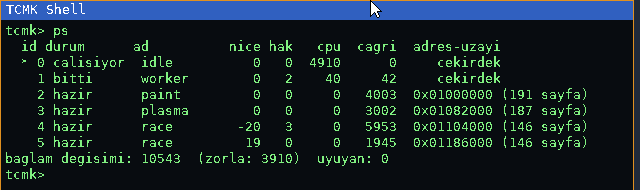
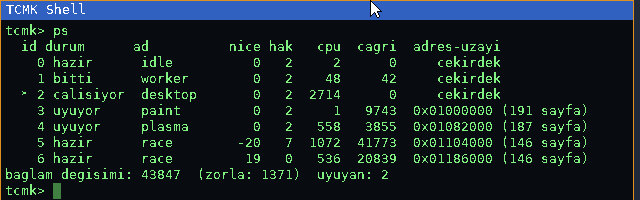
Masaustu ayri bir gorev, 0 numara gercek idle
Gecen commit'te bilinen sinir olarak yazilan sey kapaniyor: 0 numarali
gorev artik masaustu dongusu degil. Masaustu kendi gorevinde kosuyor ve
normal kurallara tabi -- nice, donem hakki, preemption. Idle'in tek isi
bos beklemek; pick_next onu yalnizca calistirilabilir baska gorev
yokken seciyor, o da hlt ile CPU'yu tamamen birakiyor.

Olcusu: ps'te idle'in cpu sutunu 5138 tikin 2'si. Yani CPU bosa
gitmiyor. Onceden tiklerin ~%95'i oraya yaziliyordu.

Yan kazanc: kabuk artik masaustu gorevinde kostugu icin disk komutlari
kesmeyle bekleyebiliyor (daha once idle'da kostugu icin yoklamaya
dusuyordu), ve masaustunun gercek CPU maliyeti gorunur oldu (i386'da
2714 tik).

Yol boyunca uc hata cikti:

1. BAGLAM DEGISIMI BOLUNEMEZ DEGILDI. Masaustu ayri goreve tasinir
   tasinmaz sistem #DB istisnasiyla coktu; hata adresi her seferinde
   arch_context_switch icindeki popfl'in bir sonrasiydi, yani takas
   edilen baglamin EFLAGS'i bozuktu ve TF biti iceriyordu. Sebep:
   yield_now yalnizca SECIMI koruyordu, takasin kendisi kesmelere
   aciktı. O aralikta gelen zamanlayici kesmesi preempt_from_timer
   uzerinden yield_now'a IC ICE giriyor, CURRENT yeni goreve yazilmis
   ama yigin degismemis oldugu icin ic cagri ESKI yigini YENI gorevin
   yuvasina kaydediyordu. Bu hata masaustu ayrimindan onceki kodda da
   vardi; yield sikligi onu gun yuzune cikarmamisti.

2. KOSAN GOREV HICBIR ZAMAN ADAY OLAMIYORDU. pick_next yalnizca Ready
[…]

diff --git a/kernel/src/level0a/core/scheduler.rs b/kernel/src/level0a/core/scheduler.rs
@@ -344,6 +344,12 @@ pub fn preemptions() -> usize {
     PREEMPTIONS.load(Ordering::Relaxed)
 }
 
+/// Zamanlayici baglam degisimi istiyor mu?
+///
+/// Su an yalnizca `preempt_from_timer` icinden okunuyor; disariya acik
+/// kalmasi bilincli, cunku uzun suren cekirdek islerinin arasinda
+/// "sirami birakmali miyim" diye sormasi dogru olan yontemdir.
+#[allow(dead_code)]
 pub fn needs_resched() -> bool {
     NEED_RESCHED.load(Ordering::Relaxed)
 }
@@ -359,16 +365,27 @@ pub fn yield_now() {
     // sekilde bosta calisiyordur, olu degil.
     crate::level0a::pit::beat();
 
-    let (current_index, next_index) = crate::arch::cpu::without_interrupts(|| {
-        let current = CURRENT.load(Ordering::Relaxed);
-        (current, pick_next(current))
-    });
+    // Secim VE takas tek parcada, kesmeler kapali yapilir.
+    //
+    // Onceden yalnizca secim korunuyordu; takasin kendisi kesmelere
+    // acikti. O aralikta gelen bir zamanlayici kesmesi `preempt_from_timer`
+    // uzerinden `yield_now`'a IC ICE girebiliyordu: CURRENT yeni goreve
+    // yazilmis ama yigin henuz degismemis oluyor, bu yuzden ic cagri
+    // ESKI yigini YENI gorevin yuvasina kaydediyordu. Sonucu, bir
+    // sonraki takasta `popfl`'in bozuk bir EFLAGS okumasi -- ve TF biti
+    // oradan gelirse aninda #DB istisnasi.
+    //
+    // Kesmeleri kapatmak burada tutarlidir: her gorev ayni sarmalayicinin
+    // icinde takas edilir, yani IF=0 ile cikip IF=0 ile geri girer ve
+    // sarmalayici cikista onu geri acar. Yeni dogan gorev ise
+    // `bootstrap_stack`'ten IF=1 ile baslar.
+    crate::arch::cpu::without_interrupts(|| unsafe {
+        let current_index = CURRENT.load(Ordering::Relaxed);
+        let next_index = pick_next(current_index);
+        if next_index == current_index {
+            return;
+        }
 
-    if next_index == current_index {
-        return;
-    }
-
-    unsafe {
         let tasks = core::ptr::addr_of_mut!(TASKS) as *mut Task;
 
         if (*tasks.add(current_index)).state == TaskState::Running {
@@ -389,6 +406,14 @@ pub fn yield_now() {
         if current_index != IDLE_TASK {
             let credits = &mut (*tasks.add(current_index)).credits;
             *credits = credits.saturating_sub(1);
+        }
+        // Idle'a gecerken donem yenilenir: baska gorev kalmadigi icin
+        // idle secildiyse, sonraki uyanmada herkesin hakki hazir olsun.
+        if next_index == IDLE_TASK {
+            let count = TASK_COUNT.load(Ordering::Relaxed);
+            for i in 0..count {
+                (*tasks.add(i)).credits = slice_ticks((*tasks.add(i)).nice);
+            }
         }
         (*tasks.add(next_index)).state = TaskState::Running;
         CURRENT.store(next_index, Ordering::Relaxed);
@@ -417,7 +442,7 @@ pub fn yield_now() {
         let old_sp_slot = core::ptr::addr_of_mut!((*tasks.add(current_index)).stack_pointer);
         let new_sp = (*tasks.add(next_index)).stack_pointer;
         arch_context_switch(old_sp_slot, new_sp);
-    }
+    });
 }
 
 /// Calisan gorevi sonlandirir ve bir daha asla ona donmez.
@@ -444,49 +469,59 @@ fn pick_next(current: usize) -> usize {
     let count = TASK_COUNT.load(Ordering::Relaxed);
     wake_expired(count);
 
-    // Donem sonu: idle DISINDA hakki kalmis hazir gorev yoksa yeni donem
-    // baslar. Idle'in muafiyeti kosula dahil edilmemeli -- edilseydi o her
-    // zaman hazir ve muaf oldugu icin kosul hicbir zaman saglanmaz, donem
-    // hic yenilenmez ve hakki biten butun gorevler kalici olarak ac
-    // kalirdi. (Tam olarak bu hata yasandi: yeni baslatilan surec hic
-    // zamanlanmadi.)
-    unsafe {
-        let tasks = core::ptr::addr_of!(TASKS) as *const Task;
-        let mut any_credited = false;
-        for i in 0..count {
-            // KOSAN gorev de sayilmali. `pick_next` cagrildigi anda o
-            // gorevin durumu `Running`'dir; yalnizca `Ready` aransaydi
-            // "kimsede hak kalmadi" sanilir ve donem HER turda yenilenirdi
-            // -- yani hakki biten gorev aninda yeniden hak kazanir ve
-            // oncelik hicbir sey ifade etmezdi. Olcum tam olarak bunu
-            // gosterdi: hak sutunu 7'ye karsi 0 iken bile iki surec ayni
-            // hizda kosuyordu.
-            let state = (*tasks.add(i)).state;
-            let runnable = state == TaskState::Ready || state == TaskState::Running;
-            if i != IDLE_TASK && runnable && (*tasks.add(i)).credits > 0 {
-                any_credited = true;
-                break;
+    // Iki gecis. Once donem hakki kalmis hazir gorevler aranir; hicbiri
+    // yoksa donem kapanir (herkesin hakki tazelenir) ve tekrar bakilir.
+    //
+    // Donem kapaninca kullanilmamis hak SILINIR, devretmez. Devretseydi
+    // yuksek oncelikli bir gorev hak biriktirip sirayi hic birakmazdi --
+    // olculdu: dusuk oncelikli surec 1305 tike karsi 8 tik aldi, yani
+    // 8:1 olmasi gereken oran 163:1'e cikti.
+    for pass in 0..2 {
+        unsafe {
+            let tasks = core::ptr::addr_of!(TASKS) as *const Task;
+            for offset in 1..=count {
+                let candidate = (current + offset) % count;
+                if (*tasks.add(candidate)).state != TaskState::Ready {
+                    continue;
+                }
+                // Idle SON CARE: normal taramada hic secilmez. Bir donem
+                // masaustu dongusuyle birlesikti ve her turda secilmesi
+                // gerekiyordu; masaustu ayri bir goreve tasindiktan sonra
+                // 0 numaranin tek isi bos beklemek kaldi.
+                if candidate == IDLE_TASK {
+                    continue;
+                }
+                if (*tasks.add(candidate)).credits == 0 {
+                    continue;
+                }
+                return candidate;
             }
         }
-        if !any_credited {
+        if pass == 0 {
             refill_credits(count);
         }
     }
 
+    // Hazir baska gorev yok. Bu, mevcut gorevin kosamayacagi anlamina
+    // GELMEZ: tarama yalnizca `Ready` olanlara bakar, oysa cagri aninda
+    // mevcut gorevin durumu `Running`'dir -- yani kendisi hicbir zaman
+    // aday olamaz. Hakki duruyorsa devam etmesi gerekir.
+    //
+    // Bu atlanirsa sistem, kosmaya hazir bir gorev VARKEN idle'a duser ve
+    // idle `hlt` ettigi icin CPU gercekten bosa gider (olculdu: tiklerin
+    // %60'i idle'a yaziliyordu).
     unsafe {
         let tasks = core::ptr::addr_of!(TASKS) as *const Task;
-        for offset in 1..=count {
-            let candidate = (current + offset) % count;
-            if (*tasks.add(candidate)).state != TaskState::Ready {
-                continue;
-            }
-            // Idle (0) ayni zamanda masaustu dongusudur; hakki bitti diye
-            // atlanirsa ekran donar. Bu yuzden secimde muaftir -- ama
-            // yukaridaki donem kosulunda sayilmaz.
-            if candidate != IDLE_TASK && (*tasks.add(candidate)).credits == 0 {
-                continue;
-            }
-            return candidate;
+        if current != IDLE_TASK
+            && (*tasks.add(current)).state == TaskState::Running
+            && (*tasks.add(current)).credits > 0
+        {
+            return current;
+        }
+        if (*tasks.add(IDLE_TASK)).state == TaskState::Ready
+            || (*tasks.add(IDLE_TASK)).state == TaskState::Running
+        {
+            return IDLE_TASK;
         }
     }
     current

diff --git a/kernel/src/main.rs b/kernel/src/main.rs
@@ -226,11 +226,45 @@ pub extern "C" fn kernel_main(multiboot_magic: u32, multiboot_info_addr: usize) 
         None => level0b2::fallback::emergency(&["worker gorevi olusturulamadi."]),
     }
 
-    // Idle gorevi (task 0) ayni zamanda **masaustu dongusudur**:
-    // girdiyi isler, pencereleri birlestirir ve State Monitor'u besler.
-    let mut last_report_tick = 0u32;
+    // --- Idle gorevi (task 0) ---
+    //
+    // Bu gorev bir donem ayni zamanda **masaustu dongusuydu**: girdiyi
+    // isliyor, pencereleri birlestiriyor, State Monitor'u besliyordu.
+    // Olcum bunun bedelini gosterdi -- zamanlayici tiklerinin ~%95'i
+    // buraya yaziliyordu ve Ring 3 uygulamalari kalanini paylasiyordu.
+    //
+    // Artik masaustu kendi gorevindedir (`desktop_task`) ve 0 numara
+    // **gercek bir idle**: `pick_next` onu yalnizca baska hicbir gorev
+    // calistirilabilir degilken secer, o da `hlt` ile bir sonraki
+    // kesmeye kadar CPU'yu tamamen serbest birakir.
+    //
+    // `hlt` sonrasi `yield_now`: kesme yeni bir gorevi hazir yapmis
+    // olabilir (uyku suresi doldu, disk kesmesi geldi). Baska hazir gorev
+    // yoksa `yield_now` baglam degistirmeden doner, yani bu dongu bos
+    // dondugunde bile ucuzdur.
+    loop {
+        arch::cpu::halt();
+        scheduler::yield_now();
+    }
+}
+
+/// Masaustu dongusu: girdi, kompozitor, State Monitor ve durum raporu.
+///
+/// Ayri bir gorev olmasi bilincli. Idle ile birlesikken zamanlayici
+/// muhasebesinin disinda kaliyordu: her turda secilip CPU'yu tuketiyor,
+/// ama oncelik butcesine tabi olmadigi icin kimse onu sinirlayamiyordu.
+/// Normal bir gorev olarak artik `nice` degeri, donem hakki ve preemption
+/// ona da uygulanir -- yani masaustu, sistemin geri kalaniyla ayni
+/// kurallara tabidir.
+extern "C" fn desktop_task() -> ! {
     /// Kompozitor tavani: en fazla iki tikta bir tam ekran birlestirme.
+    ///
+    /// 1024x768x32 bir kareyi saniyede yuzlerce kez uretmenin karsiligi
+    /// yok; ekran zaten o hizda degismiyor. Iki tik (=20 ms, ~50 kare/sn)
+    /// gozle fark edilmeyen ama uygulamalara CPU birakan bir sinirdir.
     const COMPOSE_INTERVAL_TICKS: u32 = 2;
+
+    let mut last_report_tick = 0u32;
     let mut last_compose_tick = 0u32;
 
     loop {
@@ -239,18 +273,8 @@ pub extern "C" fn kernel_main(multiboot_magic: u32, multiboot_info_addr: usize) 
         // Level-0b2 -> Level-0a mesaj kuyrugu (doc S.10 Faz 4+).
         level0a::messages::drain();
 
-        // Girdi her turda islenir (gecikme fark edilir), ama KOMPOZITOR
+        // Girdi her turda islenir (gecikmesi fark edilir), kompozitor
         // sinirlanir.
-        //
-        // Onceden her turda tam ekran birlestiriliyordu ve olcum bunun
-        // bedelini gosterdi: 5151 zamanlayici tikinin 4898'i idle
-        // gorevine, yani kompozitore gidiyordu -- CPU'nun ~%95'i. Ring 3
-        // uygulamalari kalan diliminde bogusuyordu.
-        //
-        // 1024x768x32 bir kareyi saniyede yuzlerce kez uretmenin bir
-        // karsiligi yok; ekran zaten o hizda degismiyor. Iki tiklik
-        // (=20 ms, ~50 kare/sn) bir tavan, gozle fark edilmeyen ama
-        // uygulamalara CPU birakan siniri koyar.
         if level0a::wm::active() {
             level0a::wm::handle_input();
             let now = level0a::pit::ticks();
@@ -258,23 +282,6 @@ pub extern "C" fn kernel_main(multiboot_magic: u32, multiboot_info_addr: usize) 
                 last_compose_tick = now;
                 level0a::wm::compose();
             }
-        }
-
-        // CPU yalnizca zamanlayici istediginde birakilir.
-        //
-        // Her turda kosulsuz birakmak DENENDI ve sistemi kilitledi:
-        // uygulamalar da her karede biraktigi icin iki gorev arasinda
-        // saniyede binlerce baglam degisimi olusuyor, is yapmaya zaman
-        // kalmiyor (olcum: 151 zamanlayici tikine karsilik 815 bin
-        // baglam degisimi). Baglam degisimi ucuz degildir -- CR3 dahil
-        // butun baglam yenilenir.
-        //
-        // Bunun bilinen bedeli: bu gorev tiklerin cogunu tuketiyor
-        // (bkz. README, "masaustu dongusunun CPU payi"). Dogru cozum
-        // masaustunu ayri bir goreve tasiyip 0 numarayi gercek bir idle
-        // yapmaktir; ayri bir is.
-        if scheduler::needs_resched() {
-            scheduler::yield_now();
         }
 
         // ~10 saniyede bir sistem durumu raporu (100 Hz PIT).
@@ -290,9 +297,11 @@ pub extern "C" fn kernel_main(multiboot_magic: u32, multiboot_info_addr: usize) 
             );
         }
 
-        if !level0a::wm::active() {
-            arch::cpu::halt();
-        }
+        // Sirayi birak. Kosulsuz birakmak burada guvenlidir cunku bu gorev
+        // artik donem hakkina tabidir: hakki bitince secilmez, yani eski
+        // "her turda yield" denemesindeki baglam degisimi firtinasi
+        // olusamaz.
+        scheduler::yield_now();
     }
 }
 
@@ -431,6 +440,13 @@ fn start_desktop() {
 
     // Etkilesimli kabuk.
     level0a::shell::start(30, 300);
+
+    // Masaustu artik kendi gorevinde kosar; bu satirdan once cagrilamaz,
+    // cunku gorev ilk turunda `wm`'in hazir oldugunu varsayar.
+    match scheduler::spawn("desktop", desktop_task) {
+        Some(id) => crate::println!("[LEVEL-0a] masaustu gorevi olusturuldu (id={}).", id),
+        None => level0b2::fallback::emergency(&["masaustu gorevi olusturulamadi."]),
+    }
 
     // Ring 3 GUI uygulamalari (her biri kendi gorevinde).
     #[cfg(target_arch = "x86")]

diff --git a/README.md b/README.md
@@ -1525,17 +1525,22 @@ tcmk> nice 5 19
 
 `race` ayni programin iki kopyasidir ve **CPU'ya baglidir** (her turda
 sabit miktarda hesap yapar). Esit oncelikle kosarken tur sayaclari ayni
-hizda artar; oncelikler ayrilinca ayrisir. Olcum (esit fazdan sonraki
-~18 saniye):
+hizda artar; oncelikler ayrilinca ayrisir.
+
+Olcum, uygulamanin kendi sayacindan degil, **cekirdegin gorev basina
+saydigi tiklerden** (`ps`'in `cpu` sutunu) alinir -- uygulama sayaci
+uyku ve G/C ile bozulabilir, tik sayaci bozulmaz:
 
 | | i386 | x86_64 |
 |---|---|---|
-| nice -20 | +1573 tur | +1598 tur |
-| nice 19 | +266 tur | +281 tur |
-| oran | **5.9 : 1** | **5.7 : 1** |
+| nice -20 | 1072 tik | 1817 tik |
+| nice 19 | 536 tik | 948 tik |
+| oran | **2.0 : 1** | **1.9 : 1** |
 
-Butce orani nominalde 8:1'dir; olculen degerin altinda kalmasinin sebebi
-masaustu dongusunun kendi payini almasidir (asagi bkz.).
+Butce orani nominalde 8:1'dir. Olculenin altinda kalmasinin iki sebebi
+var: hak hem tik hem tur basina harcanir (ince taneli isler turlarini
+tiklerinden once tuketir), ve masaustu gorevi de ayni havuzdan pay alir
+-- `ps`'te onun `cpu` sutunu digerlerininkiyle yarisir.
 
 ### Nasil calisiyor
 
@@ -1578,22 +1583,61 @@ Iki gorevli bir sistemde biri kosuyor, oteki hakkini bitirmisse denetim
 "kimsede hak kalmadi" der ve donem **her turda** yenilenirdi. Hakki biten
 gorev aninda yeniden hak kazandigi icin oncelik hicbir sey ifade etmezdi.
 
-### Bilinen sinir: masaustu dongusunun CPU payi
+### Masaustu artik ayri bir gorev
 
-Olcumun yan urunu olarak ortaya cikan bir sey: 0 numarali gorev (idle)
-ayni zamanda **masaustu dongusudur** ve zamanlayici tiklerinin buyuk
-cogunlugunu tuketir (`ps`'te `cpu` sutunu). Kompozitor artik en fazla iki
-tikta bir tam ekran birlestirse de dongu kendisi siki calisir.
+Bir donem 0 numarali gorev (idle) ayni zamanda **masaustu dongusuydu**:
+girdiyi isliyor, pencereleri birlestiriyor, State Monitor'u besliyordu.
+Olcum bunun bedelini gosterdi -- zamanlayici tiklerinin ~%95'i oraya
+yaziliyordu ve zamanlayici muhasebesinin disinda kaldigi icin kimse onu
+sinirlayamiyordu.
 
-Her turda kosulsuz `yield` denendi ve sistemi kilitledi: uygulamalar da
-her karede biraktigi icin saniyede binlerce baglam degisimi olusuyor ve
-is yapmaya zaman kalmiyor (olcum: 151 zamanlayici tikine karsilik 815 bin
-baglam degisimi). Baglam degisimi ucuz degildir -- CR3 dahil butun baglam
-yenilenir.
+Artik masaustu kendi gorevindedir ve **normal kurallara tabidir**:
+`nice`, donem hakki, preemption. 0 numaranin tek isi bos beklemek kaldi;
+`pick_next` onu yalnizca calistirilabilir baska gorev yokken secer, o da
+`hlt` ile CPU'yu tamamen birakir. `ps`'te idle'in `cpu` sutununun 2'de
+kalmasi bunun olcusudur -- yani CPU bosa gitmiyor.
 
-Dogru cozum masaustunu **ayri bir goreve** tasiyip 0 numarayi gercek bir
-idle yapmaktir (o zaman idle yalnizca baska hicbir sey kosmadiginda
-secilir ve `hlt` edebilir). Ayri bir is olarak duruyor.
+Bu ayrimin iki yan etkisi de var: kabuk artik masaustu gorevinde kostugu
+icin disk komutlari **kesmeyle bekleyebiliyor** (bkz. IRQ14), ve
+masaustunun gercek CPU maliyeti `ps`'te gorunur hale geldi.
+
+#### Yol boyunca cikan uc hata
+
+**1. Baglam degisimi bolunemez degildi.** Masaustu ayri goreve tasinir
+tasinmaz sistem `#DB` (debug) istisnasiyla coktu; hata adresi her
+seferinde `arch_context_switch` icindeki `popfl`'in bir sonraki
+komutuydu. Yani takas edilen baglamin EFLAGS'i bozuktu ve icinde TF
+(single-step) biti vardi.
+
+Sebep: `yield_now` yalnizca **secimi** kesmelere karsi koruyordu, takasin
+kendisi acikti. O aralikta gelen bir zamanlayici kesmesi
+`preempt_from_timer` uzerinden `yield_now`'a **ic ice** girebiliyordu:
+`CURRENT` yeni goreve yazilmis ama yigin henuz degismemis oluyor, bu
+yuzden ic cagri ESKI yigini YENI gorevin yuvasina kaydediyordu. Cozum,
+secim ve takasi tek bir kesmesiz bolgeye almak. Bu hata masaustu
+ayrimindan onceki kodda da vardi; oradaki yield sikligi onu gun yuzune
+cikarmamisti.
+
+**2. Kosan gorev hicbir zaman aday olamiyordu.** `pick_next` yalnizca
+`Ready` durumundakileri tarar, oysa cagri aninda mevcut gorevin durumu
+`Running`'dir. Baska aday yoksa sistem, kosmaya hazir bir gorev VARKEN
+idle'a dusuyordu -- ve idle artik `hlt` ettigi icin CPU gercekten bosa
+gidiyordu (tiklerin %60'i idle'a yazildi). Duzeltme: baska aday yoksa
+hakki duran mevcut gorev surdurulur.
+
+**3. Kullanilmayan hak devrediyordu.** Yukaridaki duzeltmenin ilk hali
+"hakki varsa hep devam etsin" diyordu; bu sefer yuksek oncelikli gorev
+sirayi hic birakmadi ve oran 8:1 yerine **163:1** oldu (1305 tike karsi
+8 tik). Donem kapandiginda kullanilmamis hak artik **silinir**.
+
+#### Denenip geri alinan
+
+Idle dongusunde her turda kosulsuz `yield` denendi ve sistemi kilitledi:
+uygulamalar da her karede biraktigi icin saniyede binlerce baglam
+degisimi olusuyor, is yapmaya zaman kalmiyordu (olcum: 151 zamanlayici
+tikine karsilik 815 bin baglam degisimi). Baglam degisimi ucuz degildir
+-- CR3 dahil butun baglam yenilenir. Dogru cozum, yukaridaki gibi,
+masaustunu ayri bir goreve tasiyip idle'i gercekten bos birakmakti.
 
 ## Preemptive zamanlama
 
